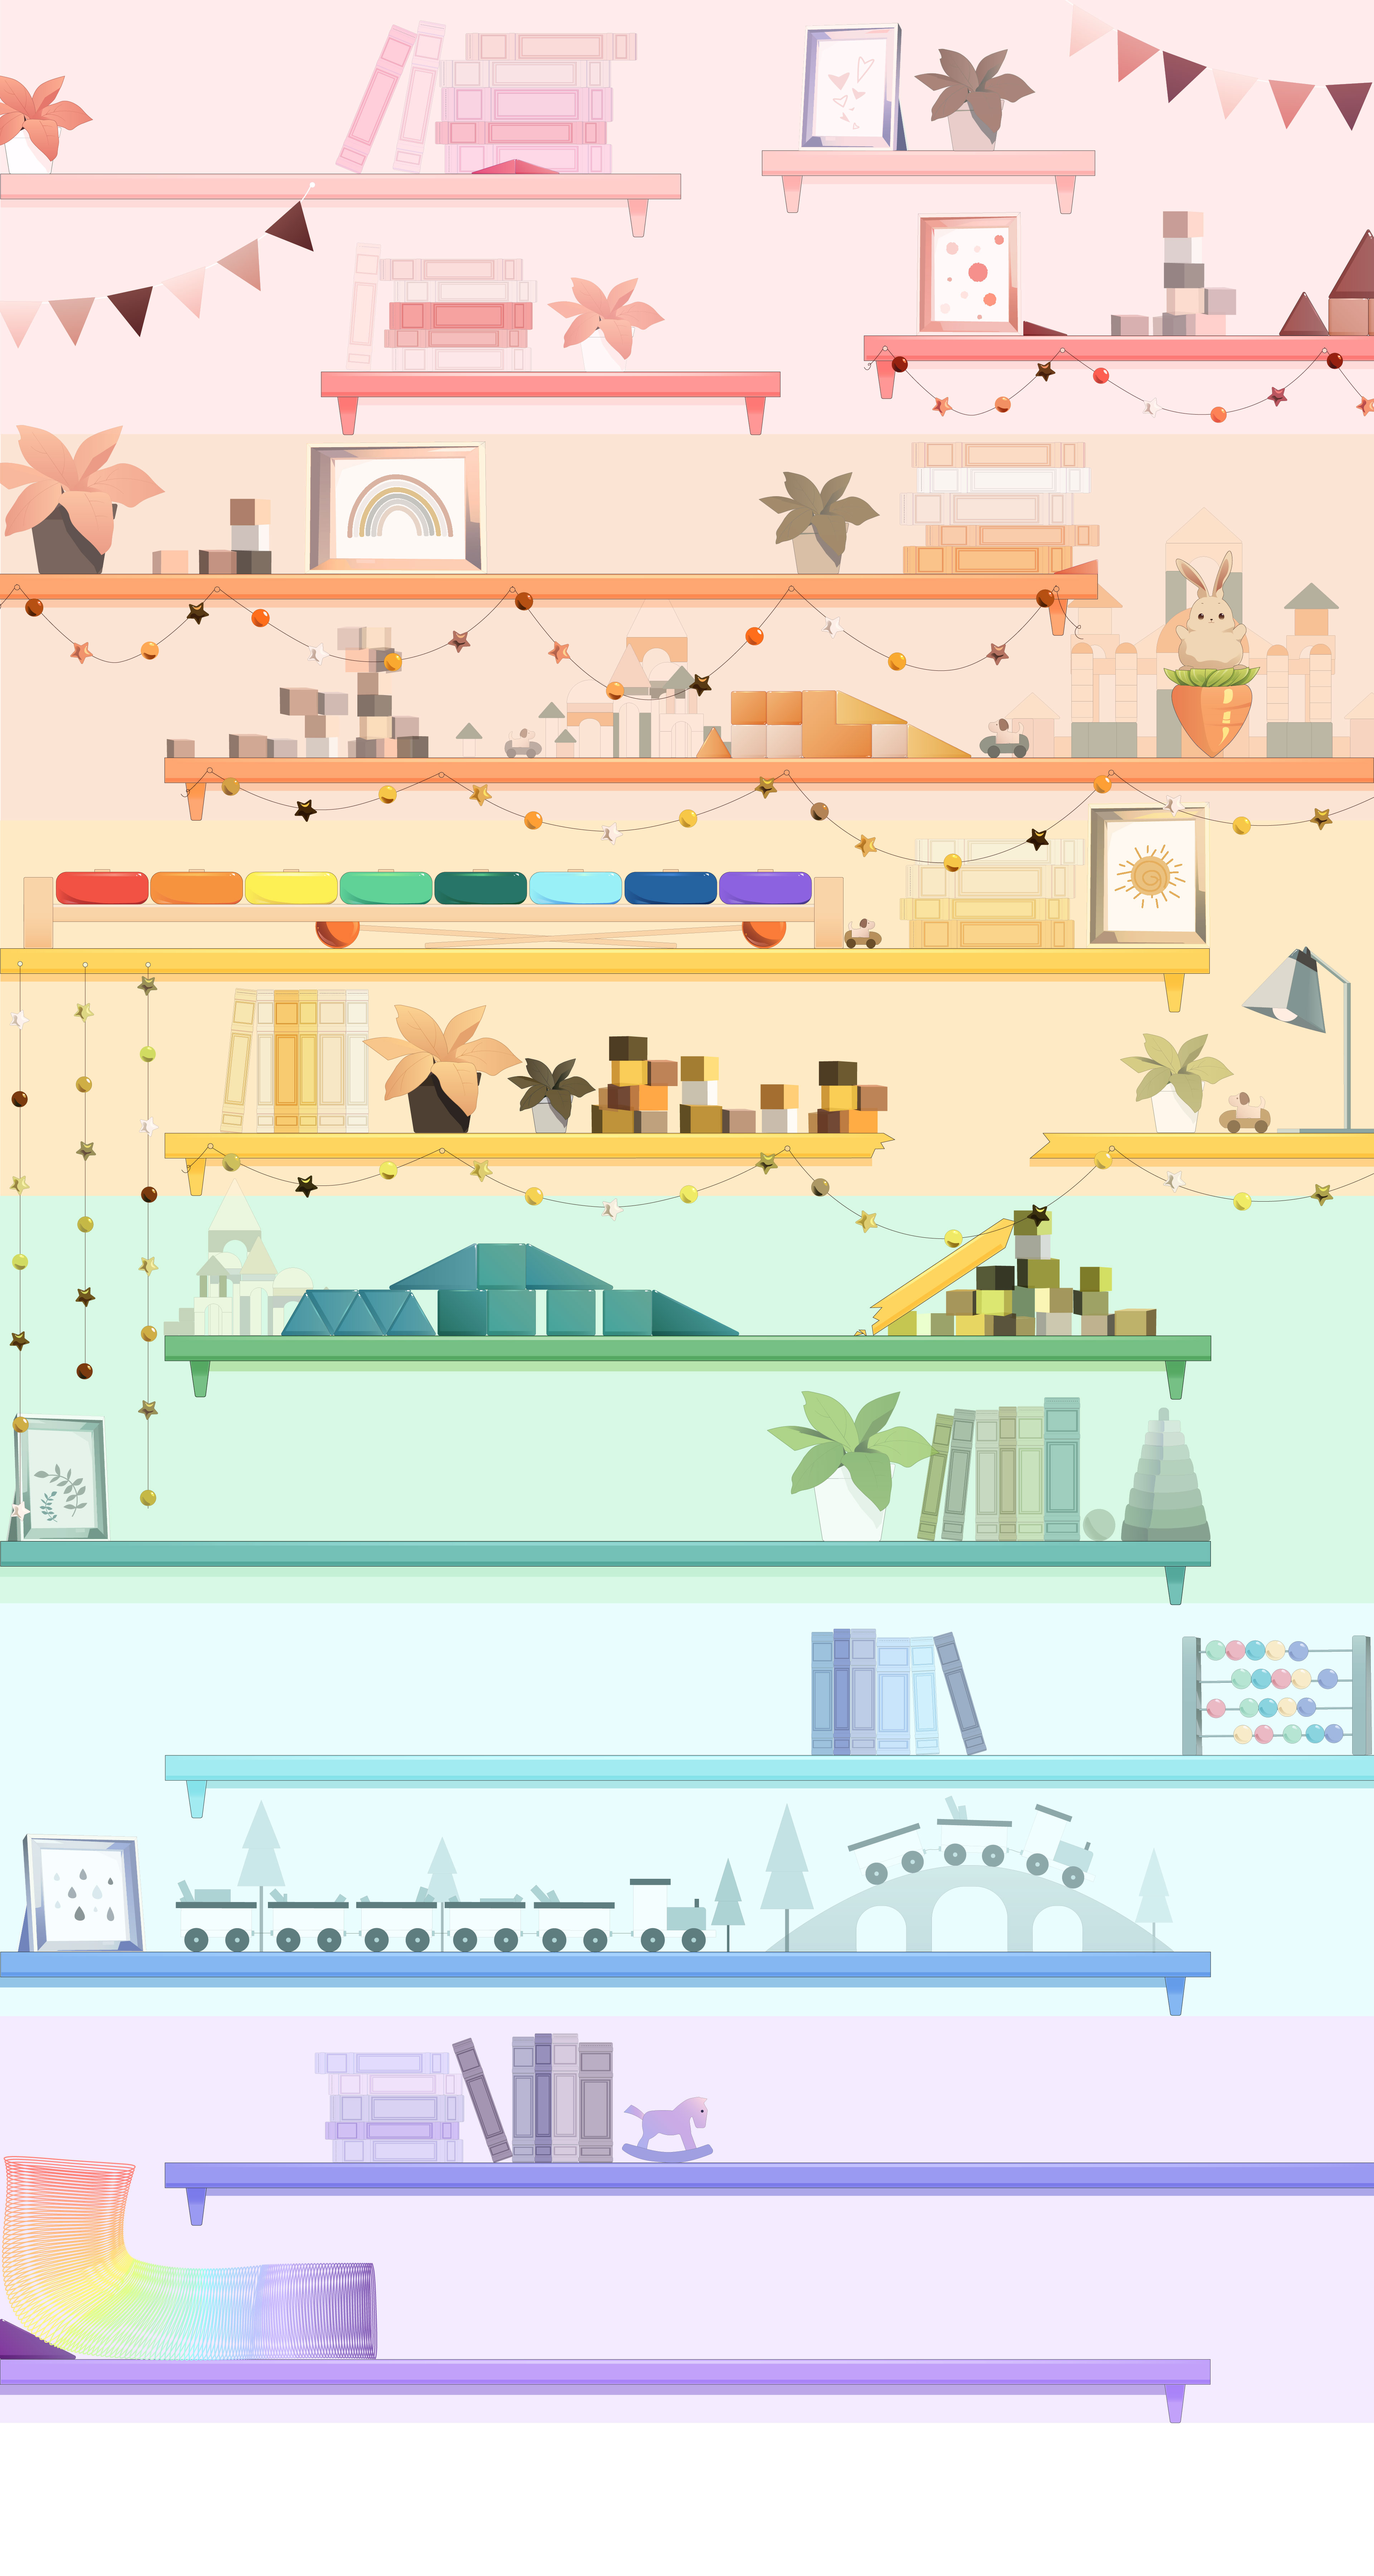
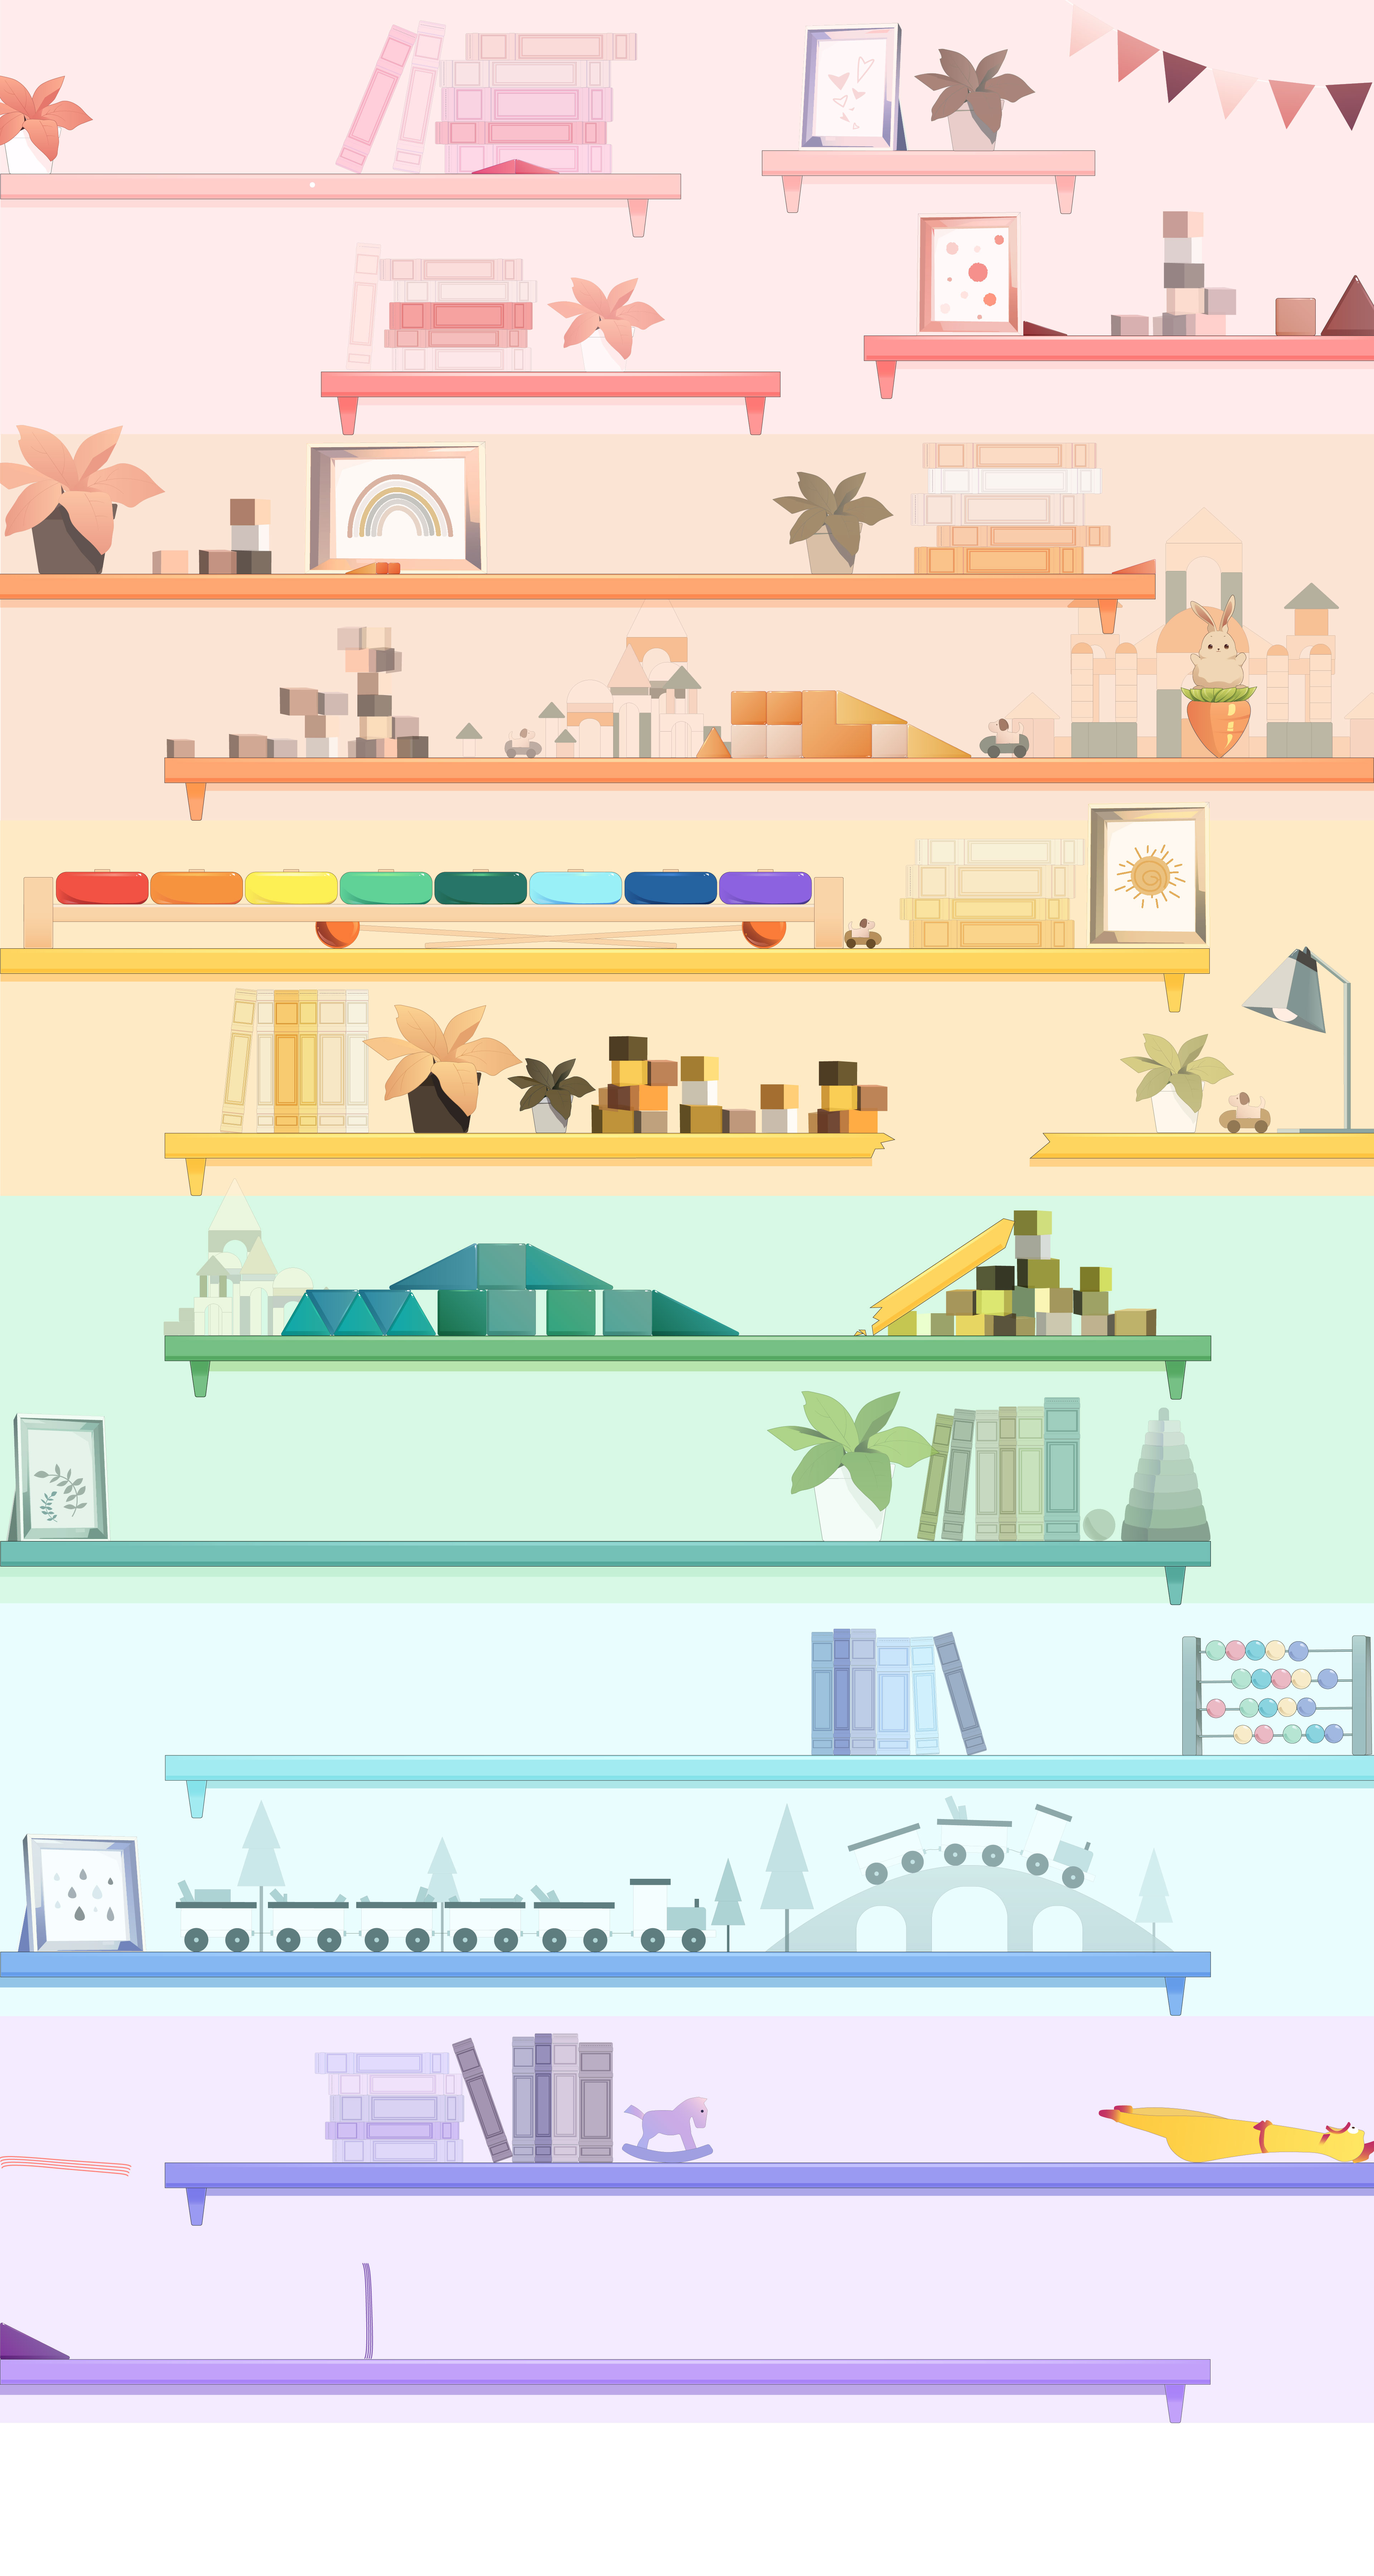
overlay and slinky added

diff --git a/sketch.js b/sketch.js
@@ -94,7 +94,7 @@ imageMode(CENTER)
 
   blocks.push(new BlockCore(engine.world,
     {
-      x: 0, y: 0, w: 100, h: 10000,
+      x: 0, y: 0, w: 100, h: 11000,
       trigger: () => {
         direction *= -1;
         console.log('Left Trigger');
@@ -105,7 +105,7 @@ imageMode(CENTER)
 
   blocks.push(new BlockCore(engine.world,
     {
-      x: dim.w - 5, y: 0, w: 100, h: 10000,
+      x: dim.w - 5, y: 0, w: 100, h: 11000,
       trigger: () => {
         direction *= -1;
         console.log('Right Trigger');
@@ -205,7 +205,7 @@ function keyPressed(event) {
 
       if (active === -1) {
         active = 0;
-        murmel = new Ball(world, { x: 300, y: 100, r: 75, image: ballSVG }, { label: "Murmel", density: 0.0015, restitution: 0.3, xfriction: 0, frictionAir: 0 });
+        murmel = new Ball(world, { x: 300, y: 100, r: 75, image: ballSVG }, { label: "Murmel", density: 0.001, restitution: 0.3, xfriction: 0, frictionAir: 0 });
 
         blocks.push(murmel);
         bouncingSound.play();

diff --git a/index.html b/index.html
@@ -52,7 +52,7 @@
     width: 3840px;
     height: 7200px;
     background: url('./assets/graphics/background/overlay.png') no-repeat;
-    z-index: -1;
+    z-index: 1;
     pointer-events: none;
   }
 </style>
